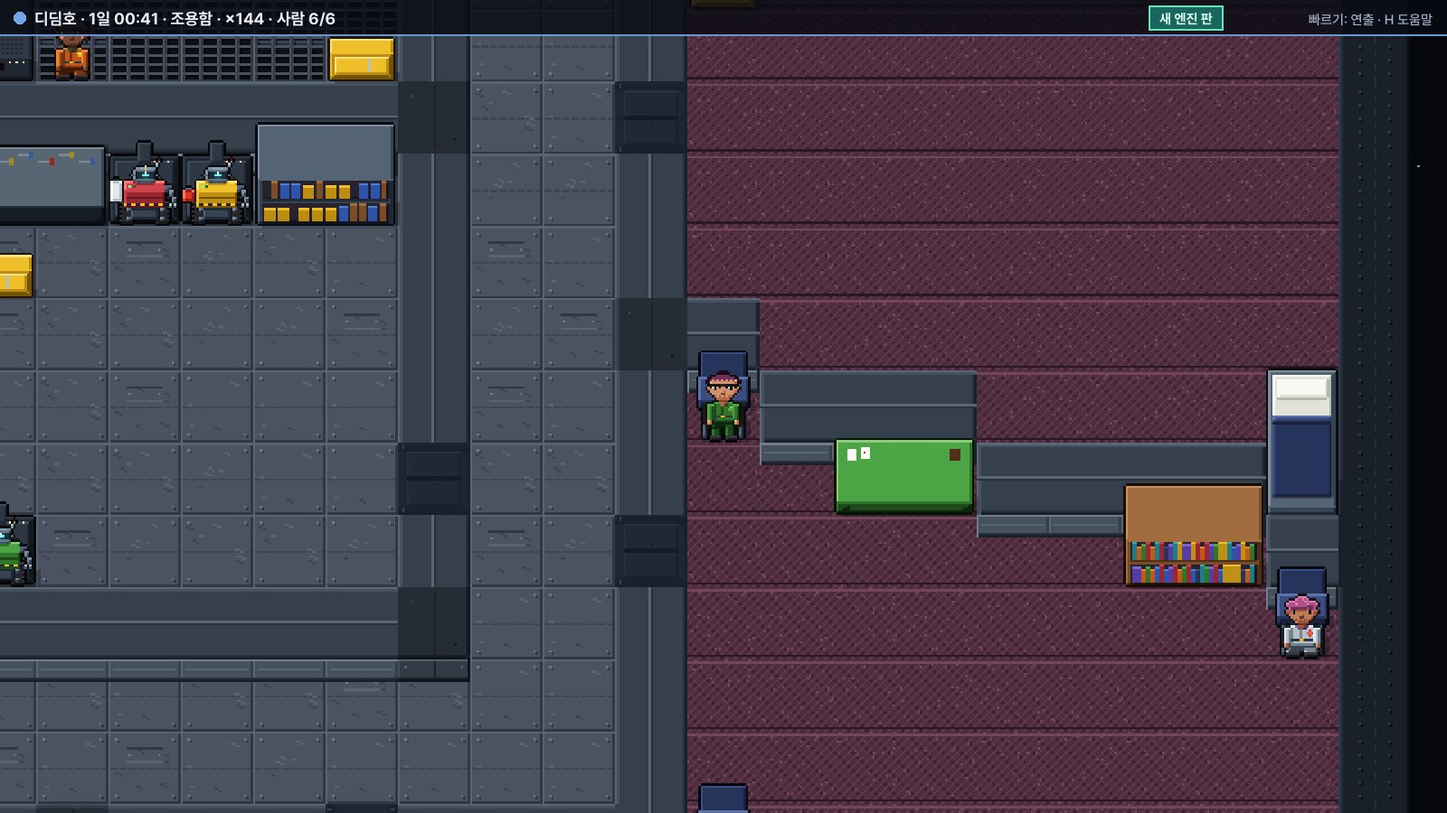
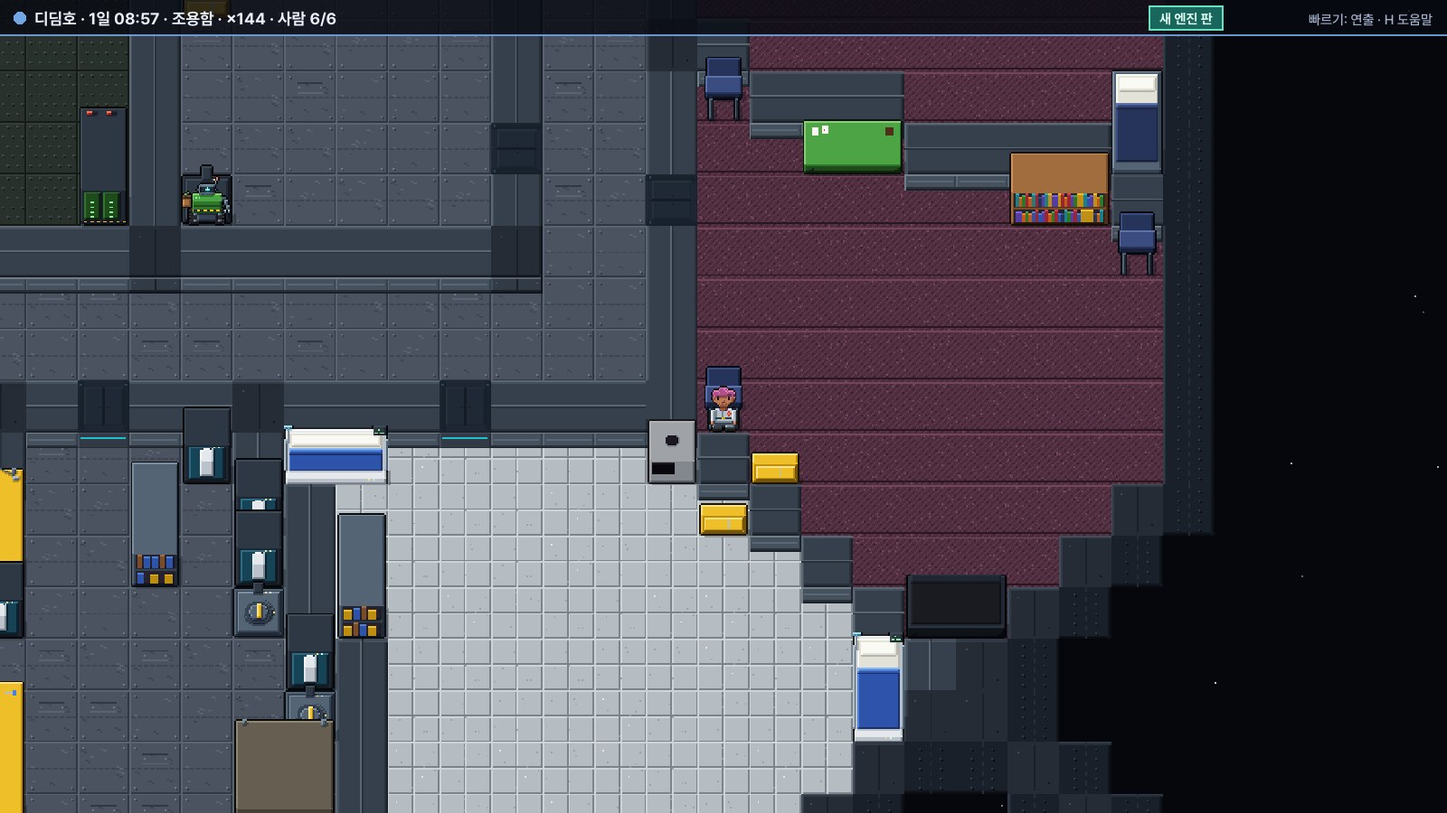
조용할 때 카메라가 사람들의 일상을 차례로 비춘다 — 빈 배 가운데에 몇 시간씩 쉬던 것
새 엔진 판을 보며 찾은 것: 볼 만한 일이 없으면 카메라가 배 가운데(빈 통로)에 몇 시간씩 머물렀다.
- 연출 카메라: 관심이 1 아래면 깨어 있는 이가 있는 방 가운데 가장 오래 안 본 방을 15초씩 비춘다 (다들 자면 자는 방) · 막 본 장면은 8초 머문다 · 첫 일에는 곧장 자른다
- 규칙 시험 +1 (고치기 전 실패: 한 방 · 옮김 0) · 재미 점수 그대로 54 · 큰 일 놓침 2% → 0%
- 계획 끝에 함장 요청: 새 엔진 판 60프레임 확실히 · 화면(UI) 입히기
- README 지금 하는 일 · 새 엔진 판 낮 사진

Claude-Session: https://claude.ai/code/session_01U2W6DR7W4owqDy6NFo87pX

diff --git a/engine/ShipEngine/Story/DirectorCamera.cs b/engine/ShipEngine/Story/DirectorCamera.cs
@@ -7,6 +7,7 @@ namespace ShipEngine;
 /// <item>몸으로 읽는 조짐 (카메라만 쓰는 관심 — 하이라이트 문턱에는 넣지 않는다): 12초마다 사람이 선 칸의 공기(산소 분압 · 기압 · 기압이 떨어지는 빠르기 · 일산화탄소 · 열 · 곁의 불)를 읽어 — 몸이 알기 전에 그 사람에게 간다 (자는 사람은 더).</item>
 /// <item>주인공 따라가기: 장면을 고를 때 그 자리에서 가장 컸던 일의 사람을 주인공으로 — 업고 뛰거나 도망치거나 불을 끄거나 쓰러져 있으면 따라간다 (업혀 가면 업은 이를).</item>
 /// <item>두 곳 오가기: 화면 밖에 지금 장면의 반쯤 되는 일이 20초 넘게 안 보였으면 잠깐 그리로 (결정적 순간엔 자르지 않는다).</item>
+/// <item>조용할 때 일상: 볼 만한 일이 없으면 사람이 있는 방을 차례로 비춘다 (깨어 있는 이가 있는 방 · 가장 오래 안 본 방부터 · 한 방에 15초 · 다들 자면 자는 방).</item>
 /// </list>
 /// </summary>
 public sealed partial class Director
@@ -20,6 +21,13 @@ public sealed partial class Director
     /// <summary>지금 장면의 사슬 뿌리 · 주인공 (에이전트 · −1 없음).</summary>
     public int SceneRoot, Subject = -1;
     public int Pulls, CrossCuts, AirWarnings;
+    public long DailyCuts;
+    public const double DailyHoldSec = 15;                        // 조용할 때 한 방에 (화면 초)
+    private int _dailyRoom = -1;
+    private double _dailyAt, _cutAt;
+    private int[] _roomAwake = Array.Empty<int>(), _roomAll = Array.Empty<int>();
+    private double[] _roomShown = Array.Empty<double>();
+    private (int x0, int y0, int x1, int y1)[] _roomBox = Array.Empty<(int, int, int, int)>();
     public long FollowTicks;
     private int _pullCell = -1, _pullRoot, _pullActor = -1;
     private double _pullAt = double.MinValue / 2; private float _pullScore;
@@ -54,7 +62,7 @@ public sealed partial class Director
     {
         bool fresh = FocusCell < 0 || _resting || Far(cell, FocusCell);
         if (FocusCell >= 0 && !_resting && Far(cell, FocusCell)) { Switches++; _sinceSwitch = 0; }
-        FocusCell = cell; _resting = false;
+        FocusCell = cell; _resting = false; _cutAt = ScreenSeconds;
         if (!fresh && root < 0) return;
         int bestRoot = 0, bestActor = -1; float bs = 0;
         for (int k = 0; k < _recentN; k++)
@@ -66,6 +74,73 @@ public sealed partial class Director
         SceneRoot = root >= 0 ? root : bestRoot;
         Subject = actor >= 0 ? actor : bestActor;
         _subjectQuiet = t;
+    }
+
+    /// <summary>
+    /// 조용할 때 일상 (함장 요청 — 새 엔진 판에서 엔진이 도는 것이 보이게): 볼 만한 일이 없으면 빈 배 가운데에 쉬지 않고 사람이 있는 방을 차례로 비춘다 —
+    /// 깨어 있는 이가 있는 방 가운데 가장 오래 안 본 방 (처음이면 사람이 많은 방) · 한 방에 15초 (화면) · 다들 자면 자는 방 · 그 방 사람들 가운데쯤의 사람에게 · 방 넓이만큼 확대.
+    /// 쉬는 것으로 치니 (_resting) 첫 일에는 곧장 그리로 자른다.
+    /// </summary>
+    private void Daily(Sim sim)
+    {
+        _resting = true;
+        var mind = sim.Find<Mind>(); var life = sim.Find<Life>();
+        int n = L.Rooms.Count;
+        if (mind == null || life == null || n == 0) { if (FocusCell < 0) FocusCell = L.Index(L.W / 2, L.H / 2); return; }
+        if (_roomAll.Length != n)
+        {
+            _roomAwake = new int[n]; _roomAll = new int[n]; _roomShown = new double[n]; _roomBox = new (int, int, int, int)[n];
+            Array.Fill(_roomShown, double.MinValue);
+            for (int r = 0; r < n; r++)
+            {
+                int x0 = int.MaxValue, y0 = int.MaxValue, x1 = -1, y1 = -1;
+                foreach (int c in L.Rooms[r].Cells) { x0 = Math.Min(x0, L.X(c)); y0 = Math.Min(y0, L.Y(c)); x1 = Math.Max(x1, L.X(c)); y1 = Math.Max(y1, L.Y(c)); }
+                _roomBox[r] = (x0, y0, x1, y1);
+            }
+        }
+        Array.Clear(_roomAwake); Array.Clear(_roomAll);
+        bool anyAwake = false;
+        foreach (var a in mind.Agents)
+        {
+            if (!a.IsPerson || a.C.Body < 0 || a.C.Cell < 0) continue;
+            var b = life.Bodies[a.C.Body];
+            if (b.Alive == 0) continue;
+            int r = L.Room[a.C.Cell];
+            if (r < 0 || r >= n) continue;
+            _roomAll[r]++;
+            if (b.Asleep == 0) { _roomAwake[r]++; anyAwake = true; }
+        }
+        int[] count = anyAwake ? _roomAwake : _roomAll;
+        bool keep = _dailyRoom >= 0 && _dailyRoom < n && count[_dailyRoom] > 0 && ScreenSeconds - _dailyAt < DailyHoldSec;
+        if (!keep)
+        {
+            int pick = -1;
+            for (int r = 0; r < n; r++)
+            {
+                if (count[r] == 0) continue;
+                if (pick < 0 || _roomShown[r] < _roomShown[pick] || _roomShown[r] == _roomShown[pick] && count[r] > count[pick]) pick = r;
+            }
+            if (pick < 0) { if (FocusCell < 0) FocusCell = L.Index(L.W / 2, L.H / 2); _dailyRoom = -1; return; }
+            if (pick != _dailyRoom) { DailyCuts++; _dailyRoom = pick; }
+            _dailyAt = ScreenSeconds;
+        }
+        _roomShown[_dailyRoom] = ScreenSeconds;
+        // 그 방 사람들 가운데쯤에 선 사람
+        double sx = 0, sy = 0; int k = 0;
+        foreach (var a in mind.Agents)
+            if (a.IsPerson && a.C.Cell >= 0 && L.Room[a.C.Cell] == _dailyRoom) { sx += L.X(a.C.Cell); sy += L.Y(a.C.Cell); k++; }
+        if (k == 0) return;
+        sx /= k; sy /= k;
+        int best = -1; double bd = double.MaxValue;
+        foreach (var a in mind.Agents)
+        {
+            if (!a.IsPerson || a.C.Cell < 0 || L.Room[a.C.Cell] != _dailyRoom) continue;
+            double dd = (L.X(a.C.Cell) - sx) * (L.X(a.C.Cell) - sx) + (L.Y(a.C.Cell) - sy) * (L.Y(a.C.Cell) - sy);
+            if (dd < bd) { bd = dd; best = a.C.Cell; }
+        }
+        FocusCell = best;
+        var (bx0, by0, bx1, by1) = _roomBox[_dailyRoom];
+        Zoom = Math.Clamp(Math.Max(bx1 - bx0 + 1, (by1 - by0 + 1) * 2) + 6, 14, 40);
     }
 
     /// <summary>칸 c 가까이(반경 SpotRadius · 10분 안)의 일이 지금 장면의 것인가 (같은 사슬 · 같은 주인공).</summary>

diff --git a/engine/Lab/RulesCamera.cs b/engine/Lab/RulesCamera.cs
@@ -206,5 +206,26 @@ public static partial class Program
                 first == 1 && soon == 1 && late == 1,
                 $"첫 말다툼 뒤 {first}개 · 한 시간 뒤 {soon}개 · 조용한 일곱 시간 뒤 {late}개 (문턱 {Director.HighlightAt:0})");
         }
+
+        // ── 조용할 때 일상: 볼 만한 일이 없으면 배 가운데(빈 통로)에 쉬지 않고 사람이 있는 방을 차례로 비춘다 (함장 요청 — 새 엔진 판에서 엔진이 도는 것이 보이게) ──
+        {
+            var s = Worlds.Full(lay, 3);
+            var m = s.Get<Mind>(); var life = s.Get<Life>();
+            m.AddPerson(s, At(3, 2)); m.AddPerson(s, At(5, 4)); m.AddPerson(s, At(65, 3));
+            var d = new Director(s.Layout) { KeepRing = false };
+            int ticks = 0, withPeople = 0;
+            var shown = new HashSet<int>();
+            for (int i = 0; i < 3000; i++)
+            {
+                s.Step(); d.Observe(s);
+                if (d.FocusCell < 0) continue;
+                int room = s.Layout.Room[d.FocusCell];
+                ticks++;
+                if (room >= 0 && m.Agents.Any(a => a.IsPerson && a.C.Cell >= 0 && s.Layout.Room[a.C.Cell] == room)) { withPeople++; shown.Add(room); }
+            }
+            Check("조용할 때 일상: 볼 만한 일이 없으면 빈 통로에 쉬지 않고 사람이 있는 방을 비추고 · 방을 돌아가며 본다 (한 방에 15초)",
+                withPeople >= ticks * 0.85 && shown.Count >= 2 && d.DailyCuts >= 2,
+                $"사람이 있는 방을 본 틱 {withPeople}/{ticks} · 본 방 {shown.Count} · 방을 옮김 {d.DailyCuts} · 화면 {d.ScreenSeconds:0}초");
+        }
     }
 }

diff --git a/engine/ShipEngine/Story/Director.cs b/engine/ShipEngine/Story/Director.cs
@@ -54,7 +54,7 @@ public sealed partial class Director
 
     private long _cursor;
     private int _top = -1; private float _max;
-    private bool _resting;                      // 볼 것이 없어 배 가운데를 보고 있다 (첫 일에 바로 간다)
+    private bool _resting;                      // 볼 것이 없어 사람들의 일상(없으면 배 가운데)을 보고 있다 (첫 일에 바로 간다)
     private double _sinceSwitch;
     private double _criticalLeft;               // 아주 느리게 남은 화면 초
     private long _lastOmen = long.MinValue / 2, _lastDanger = long.MinValue / 2;
@@ -216,7 +216,12 @@ public sealed partial class Director
             if (watching && !InView(i)) { outMax = h; outTop = i; }
         }
         _top = top; _max = max;
-        if (top < 0 || max < 1) { if (FocusCell < 0) { FocusCell = L.Index(L.W / 2, L.H / 2); _resting = true; } Subject = -1; SceneRoot = 0; return; }
+        if (top < 0 || max < 1)
+        {
+            // 볼 만한 일이 없다: 막 본 장면은 적어도 HoldScreenSec 머물고 · 그다음은 사람들의 일상을 비춘다
+            if (FocusCell < 0 || _resting || ScreenSeconds - _cutAt >= HoldScreenSec) Daily(sim);
+            Subject = -1; SceneRoot = 0; return;
+        }
         float cur = _resting ? 0 : ViewScore(FocusCell);
         // 1. 사슬의 앞머리: 사슬이 새 엔진으로 번진 곳이 화면 밖이면 (결정적 순간이 아니고 · 지금 장면을 2초는 봤으면) 그리로 간다
         if (_pullCell >= 0)

diff --git a/README.md b/README.md
@@ -4,7 +4,7 @@
 **인공 중력 · 무중력 ✔** — 배마다 인공 중력 발생기가 하나 있다: 끄거나 망가지거나 전기가 끊기면 10초에 중력이 사라지고 · 다시 돌면 30초에 1g로 선다 · 떨어져 나간 조각은 발생기가 없어 떠다닌다. 중력이 사라지면 사람은 떠서 손잡이를 잡고 간다 (처음인 이는 느리고 · 여덟 시간쯤 지내면 익숙해진다 · 로봇은 자석 발로 느리게) · 침대 밖에서 자던 이는 떠다니다 부딪혀 깨고 · 중력이 돌아오면 서툰 이는 바닥에 떨어져 넘어진다. 주컴퓨터는 꺼진 발생기를 곧 다시 켜고 · 무너질 때 '손잡이를 잡으세요' · 돌아올 때 '바닥 쪽을 잡으세요'를 알려 — 들은 이는 넘어짐이 4분의 1로 준다. 무중력에서는 쏟아진 물이 바닥에 퍼지지 않고 둥근 물 덩어리로 떠 방 안을 떠돌다 벽 · 의자 · 설비에 들러붙고 — 전선이 지나는 칸에 붙으면 합선한다 · 구멍이 나면 돌풍이 떠 있던 물을 우주로 끌고 나가고 · 중력이 돌아오면 떠 있던 물이 그 자리에 쏟아져 엉뚱한 곳에 웅덩이가 생긴다 · 그을음도 가라앉지 않아 오래 떠 있다. 무중력에서는 뜨거운 공기가 떠오르지 않아 불꽃이 제 둘레 공기만 먹다가 몇 분 만에 스스로 꺼지지만 · 통풍구 곁의 불은 계속 탄다 · 가만히 자는 이의 얼굴 앞에는 날숨이 고여 머리가 아파 깨고 — 그 뒤로는 통풍구 앞에 침낭을 묶고 잔다. 무중력에 오래 있으면 근육(주마다 1.5%) · 뼈(달마다 1.25%)가 약해져 — 운동으로 반쯤 늦추고 · 약해진 이는 중력이 돌아올 때 넘어지고 뼈가 부러지기도 한다 · 처음 사흘은 우주 멀미로 덜 먹고 가끔 토한다 (토한 것도 떠다닌다). 마지막으로 (바) 관찰 장면 '중력이 꺼진 식당': 점심때 발생기가 멈추면 식탁의 국 · 물병이 떠오르고 · 로봇이 있으면 16분 · 없으면 사람이 떠서 건너가 27분에 고친다 — 보며 고친 결함: 운동하고 난 몸의 열을 주컴퓨터가 열병으로 방송하던 것 · 발생기 고유 그림 · 떠 있는 사람은 바닥에 그림자. **② 사고 화학 ✔** — 마지막으로 더한 것 (사) 관찰 장면 '폼 침대 불': 새벽 두 시 침실의 빈 침대 곁 충전기 불꽃이 폼 매트리스에 붙으면 1분 만에 그 방에 일산화탄소 · 시안화수소가 차고 · 자던 이는 열과 불빛에 깨 외치고 나가며 · 주컴퓨터는 '독한 기체 — 숨을 참고 나오세요'를 알리고 통풍구를 닫고 봉쇄한다 · 로봇이 있으면 1분 안에 끄고 · 로봇이 없으면 사람에게 부탁한다. 보며 고친 것: 불 앞 연기에 밀려난 이가 곧장 되들어가기를 되풀이하던 것 (이제 몇 분 물러나 있고 '연기에 밀려났다'를 남긴다) · 로봇이 없는 배에서 '로봇이 모두 바쁩니다'라 하던 것 · 한 방을 두 번 봉쇄하던 것. 그 전 (바) 소화제: 이산화탄소 소화기가 생겼다 (배전반 · 주컴퓨터 곁에 하나씩 · 작업대에서 만든다) — 차가운 이산화탄소를 뿜으면 불꽃이 들이쉬는 공기가 옅어져 꺼지지만 · 식히지는 못해 뜨거운 침대는 기체가 걷히면 다시 붙고 · 물은 식혀 끄고 다시 붙지 않는다 · 작은 불은 소화기로 꺼지지만 큰 불은 하나로 못 끈다 · 불꽃은 방 공기를 먹어 닫힌 방은 방 전체가 옅어져야 꺼지고 뜨거운 방의 불은 옅은 산소에도 버틴다 · 전기가 흐르는 불(눌어붙은 차단기의 아크)에는 로봇과 전기를 아는 사람이 멀어도 이산화탄소 소화기를 들고 · 모르는 사람은 가까운 물 소화기를 뿌리다 감전된다 (원인 사슬에 남는다). 고친 결함: 다른 물건을 든 사람이 불을 끄러 가지 않던 것 · 옆 의자로 번진 불의 원인 사슬이 끊기던 것. 그 전 (마) 누출: 산소 발생기의 조절 센서는 늙으면 산소를 낮게 읽어 — 발생기가 쉬지 않고 돌아 배가 소리 없이 짙은 산소가 된다 (냄새도 색도 없어 사람은 못 느낀다) · 주컴퓨터가 제 방 센서와 견줘 23.5%에서 잡아 '산소가 짙다 — 불꽃 · 조리를 멈추세요'를 알리고 조리대를 끄고 센서를 다시 맞춘다 (주컴퓨터가 꺼져 있으면 아무도 모른다) · 산소 발생기 봉함이 터지면 갈라 낸 수소가 방에 차고 · 주컴퓨터 불붙는 기체 센서가 폭발 하한의 25%에서 알리고 그 방을 배기한다 · 그래도 불꽃이 튀면 터지고 그 원인 사슬이 봉함 샘까지 닿는다 · 냉매 암모니아는 5ppm부터 지린 냄새로 안다. 그 전 (라) 리튬 전지 열폭주: 배터리 하나가 셀 묶음 여덟 — 불 곁에서 케이스에 닿은 양 끝 묶음부터 달아올라 150℃에 안전 밸브가 쉬익 열리며 전해액 증기(이산화탄소 · 수소 · 메탄 · 일산화탄소)와 플루오린 화합물을 뿜고 (공기의 물과 만나 플루오린화수소 — 코와 눈을 찌르고 자던 이도 깬다 · 피할 곳이 없으면 폐를 다친다) · 200℃에 펑 터지며 폭주해 불이 나고 · 그 열이 옆 묶음을 달궈 몇 분 간격으로 차례로 번진다 · 파편에 찌그러지면 곧바로 · 80℃쯤은 버티고 · 다 쓴 배터리는 뿜기만 하고 불은 나지 않는다. 고친 결함: 열을 빨아들이는 반응이 칸 공기의 열보다 크면 에너지가 생겨나던 것 · 눌어붙은 차단기를 로봇이 손으로 끊는 일이 우연(옛 배터리가 1분 만에 터져 전기가 끊김)에 기대던 것 — 이제 배전반 주 차단기까지 낡았을 때 로봇이 끊는다. 그 전 (다) 산소와 불: 재질마다 스스로 타오르는 가장 옅은 산소(한계 산소 지수)가 있어 · 산소가 짙으면 훨씬 세게 타고 낮은 온도에서도 붙으며 (아폴로 1호처럼) · 기압이 낮아도 산소 비율이 같으면 그대로 타고 (NASA 시험) · 산소가 옅어지면 작은 불은 스스로 꺼지지만 둘레가 뜨거운 큰 불은 버틴다. 그 전 (나) 냄새 · 증상 · 센서: 염화수소는 누구나 '코를 찌르는 매캐한 냄새'로 · 시안화수소의 쓴 아몬드 냄새는 열에 여섯만 맡는다 — 맡은 이가 외쳐 못 맡는 이도 말로 알고 · 혼자면 어지러워진 뒤에야 늦게 나간다 · 자던 사람은 시안화수소에 깨지 않는다 · 주컴퓨터 공기 센서가 기체 이름과 짙기를 방송하고 ('시안화수소 80ppm — 숨을 참고 나오세요') · 달아오른 피복의 염화수소로 불보다 먼저 안다. 그 전 (가) 재질마다 다른 독가스: 전선 피복(PVC)은 달궈지기만 해도 염화수소가 빠져 방이 매캐해지고 · 침대 · 좌석의 폼(폴리우레탄)이 산소 모자라게 타면 시안화수소가 차 몇 분 만에 쓰러진다 (200ppm이면 5분). **④ 칸 강체 ✔** (함장 요청 — 움직임 · 부딪힘 · 파괴를 칸으로) — (가): 떨어져 나간 조각이 몸이 된다 — 뚫린 곳으로 공기를 뿜으며 그 반대로 밀려 돌고 멀어지며 · 안의 사람 · 설비는 스크립트 없이 함께 간다 (화면에도 돌아간 채로) · 배가 점화하면 배만 나아가고 조각은 뒤에 남는다 · (나) 안의 것이 관성대로 — 조각이 덜컹이면 상자가 미끄러지고 선 사람이 넘어지며 · 빠르게 도는 조각 안의 상자는 바깥 벽으로 밀려간다 · (다) 부딪힘 — 먼 쪽 벽이 뚫린 조각은 뿜는 공기에 밀려 배로 되돌아와 부딪히고 (사람이 넘어지고 배도 밀린다) · 세게 부딪히면 맞닿은 벽이 찢겨 공기가 샌다 · 조각도 또 갈라진다 · (라) 잔칸 4×4 — 벽 · 바닥이 25cm 조각으로 들쭉날쭉 뚫리고 찢기며 (찢긴 금속 테) · 갈라진 자리의 찢긴 끝이 양쪽에 남는다 · 부딪힘도 그 모양대로 · (마) 부스러기 알갱이 — 떨어져 나간 판 조각이 알갱이로 날아 화면에 보이고 · 빠지는 공기가 기압만큼 세게 밀며 · 다른 몸에 박히면 그 몸을 밀고 · 빠르고 작은 것은 외판을 뚫지만 크고 느린 덩어리는 찌그러뜨릴 뿐 · 멀리 가면 우주로 · (바) 관전 화면 — 갈라진 조각이 틱 사이에도 미끄러지듯 움직이고 · 카메라가 멀어진 조각까지 따라가며 · 배가 돌면 별도 돈다. 다음: 볼 거리 (갈라짐 · 부딪힘을 하이라이트로). 설계: 떨어져 나간 조각이 실제로 움직이고 돌며 · 안의 사람 · 물건 · 설비가 함께 가고 · 고정 안 된 것은 관성대로 날아가고 · 부딪히면 닿은 칸이 부서져 또 조각이 된다 (구조는 칸 안 4×4 잔칸 · 기체 · 열은 1m 그대로). **⑥ 배선 · 배관을 칸마다 + 고장 원인 ✔** — 모든 전선 · 냉각관 · 물관 · 센서 선이 칸마다 깔리고 끊긴 칸 뒤로는 안 간다. 방금 더한 것: 새는 관 찾기 — 젖은 바닥의 관은 녹슬어 바늘구멍이 나고 (자리를 모른다) · 주컴퓨터가 물이 쓰는 만큼보다 빨리 주는 것으로 알아 방마다 밸브를 잠가 가며 좁히고 · 그 방 관을 로봇이 따라가며 찾아 죈다 · 그 전: 피복을 타고 번지는 불 — 산소가 짙은 낮은 기압 대기(34%)에서는 전선 칸 하나의 불꽃이 전선 묶음을 따라 기어 열린 문 너머 옆 방까지 번지고 그 길의 전선이 끊긴다 · 닫힌 문에서 멈추고 · 보통 공기에서는 그 칸에서 꺼진다 · 그 전: 고장 원인 — 닳음의 까닭이 원인 사슬로 (불이 지나간 방의 정화기 거르개는 그을음이 끼어 막히고 원인이 그 불까지 · 정비 때를 넘겨 돈 모터는 베어링 기름이 말라 · 배기구가 막혀 달궈진 주컴퓨터 회로는 일찍 낡고 · 늘 뜨거운 칸의 전선 피복은 늙어 갈라져 합선) · 그 전: 선과 관을 칸마다 — 간선 · 급전선 · 가지선 · 냉각관 · 물관 (평소엔 안 보이고 겹쳐 보기 O '선과 관'에서만) · 간선이 끊기면 원자로가 섬으로 떨어져 배터리가 받는다 · 냉각관이 끊긴 원자로는 식지 못해 멈춘다 · 물관이 끊긴 산소 발생기는 물을 못 가른다 · 불에 탄 급전선은 식어도 차단기를 올릴 수 없어 로봇이 가서 잇는다 · 합선 아크가 같은 칸의 원자로 간선까지 태운다 · 그 전: 판단 엔진 끝 — 생각 사슬을 화면에 — 주컴퓨터 판에 지어낸 계획의 궁리와 걸음(✔ 마침 · ▶ 하는 중) · 회의가 넣은 매뉴얼 · 사람 카드 · 사람 판에 그 사람의 궁리 · 궁리 끝에 해낸 일은 볼 거리 (판단 엔진 끝 — 다음: 배선 · 배관을 칸마다) · 그 전: 회의가 매뉴얼을 고친다 — 주컴퓨터가 지어낸 방법('임시 에어락')이 통하면 회의 안건이 되고 · 사람마다 주컴퓨터를 믿는 정도 · 성실 · 기압 앎으로 표결해 매뉴얼에 넣는다 (믿지 않는 배는 '주컴퓨터가 지어낸 것을 어떻게 믿나'로 부결) · 같은 꼴의 다음 구멍은 해 보지 않아도 막힐 것이 센서로 보이면 매뉴얼로 바로 궁리한다 (계획까지 31분 → 0.4분 · 막기까지 64분 → 16분) · 매뉴얼대로 했다가 두 번 넘게 틀어지면 '빼자' 안건 · 그 전: 사람의 궁리 — 구멍을 막으러 가다 문 앞에서 막힌 사람이 차례로 궁리한다 (막힌 까닭에서 배운다 → 주컴퓨터가 이미 계획을 세웠으면 따른다 → 제가 아는 방 · 문 그림으로 제 지식만큼 궁리한다 → 주컴퓨터가 해 주면 되는 길이 보이면 묻는다 → 그것도 없으면 '방법을 모르겠다') · 해내면 그 분야를 더 안다 · 주컴퓨터 계획 실행기의 결함 셋을 고쳤다 (끼워 넣은 걸음을 덮어써 같은 걸음이 스무 번 겹치던 것 · 계획을 세운 뒤 몸이 제 자리를 떠나 맞지 않는 계획을 하던 것 · 제 계획의 몸이 지나갈 문을 제가 잠가 1분마다 같은 실패를 되풀이하던 것) · 작업 도구: 단계별 시간 · 표본 수집 · 되풀이 접기 · 그 전: 벽이 버틸까 — 파편에 길게 찢긴 방을 봉합 꾸러미로 일곱 시간 덮고 다시 채우면 금이 다시 달려 찢어지던 일 · 이제 주컴퓨터가 금 센서로 다시 채우면 버틸지 셈해 받칠 벽은 로봇이 먼저 덧대 받치고 · 받쳐도 못 버티면 막지도 채우지도 않고 닫아 둔다 (예비 공기를 아낀다) · 큰 구멍은 여러 번 덧대는 만큼 시간을 셈한다 · 그 전: 로봇이 없는 배에서는 주컴퓨터가 사람에게 부탁해 함께 궁리한다 — 그 사람의 몸에 맞춰 (우주복이 있어야 옅은 공기에 든다 · 봉합 꾸러미가 몇 개 있나) '우주복을 입는다 → 문틈을 막는다 → (주컴퓨터가) 앞방 공기를 되돌린다 → 들어가 구멍을 막는다'를 지어내고 · 그 사람은 출입 금지에서 빠져 맡은 걸음만 한다 · 그 전: 주컴퓨터가 궁리한다 — 안에서 · 바깥에서 막기가 다 막히면 아는 원리(기압 차 · 밸브 · 공기 되돌리기 · 문틈 · 공기냉각 …)로 다른 길을 지어낸다 ('지어낸 안: 문틈을 막고 → 앞방 공기를 예비 탱크로 되돌리고 → 문을 열어 → 들어가 막는다' — 임시 에어락) · 위험한 걸음 앞에서 세계를 복제해 미리 돌려 보고 · 비울 방은 문을 잠그고 사람에게 출입 금지 (따를지는 사람마다) · 같은 실패를 되풀이하지 않는다 · 그 전: 막힘 — 일이 막히면 까닭을 안다 ('로봇 1이 방1에서 막혔다 — 문 너머가 우주로 트여 기압을 맞출 수 없다' · 문이 끼었다 · 지난번에 안 열린 문밖에 길이 없다 · 바깥으로 나갈 문이 없다) · 주컴퓨터가 맡긴 로봇의 막힘을 읽어 일지에 쓴다 · 고쳐진 문은 다시 믿는다. 다음: ⑥ 배선 · 배관을 칸마다 · ④ 칸 강체(움직임 · 부딪힘 · 파괴) · ② 사고 화학 · 인공 중력 · ⑦ 장기 · 약 · 수술 · ⑧ 정신 건강 · ⑨ 문화 · ⑪ 공급 사슬 · ⑤ 통신 지연 · 별계 · ⑫ 긴 줄기 · ⑬ 이야기 편집.
 
 
-**지금 하는 일: 깊이 바퀴 3 — ⑧ 마음 · ⑨ 사회 깊게: 인생 목표 ✔ (사람마다 솜씨 · 귀향 · 짝 · 배를 지킨다 · 알아낸다 중 하나 — 그 목표가 불로 달려갈지 먹으러 갈지를 가르고 · 점화를 놓치면 집에 가고 싶던 이만 무너진다) · 거짓말과 속임 ✔ (제 실수를 숨긴 이가 그 장치를 고친 동료에게 떠넘기고 · 듣는 이는 반쯤 믿고 · 그때 곁에서 본 이나 주컴퓨터의 정비 기록으로 들통나면 믿음이 무너진다) · 오래 남는 배움 ✔ (불 · 구멍 · 나쁜 공기를 곁에서 보거나 겪은 이는 3주 동안 그 위험에 더 일찍 움직인다 — 구멍을 겪어 본 이는 옅은 공기에 마스크를 5분 먼저 쓴다 · 두 주 넘게 안 쓴 솜씨는 녹고 다시 익히면 처음보다 빠르다 · 주컴퓨터의 주간 비상 훈련) · ⑨ 회의 · 재판 · 선거 · 반란 ✔ (한 사람에게 원망이 모이면 식당에 모여 한 마디씩 하고 표결한다 — 사과 · 벌 당번 · 근신 · 무죄 · 대표를 믿는 이는 대표의 말 쪽으로 기운다 · 대표가 없거나 무너지면 비밀 투표로 다시 뽑는다 · 배급 중 굶주림이 이틀을 넘으면 배급을 따르지 않기로 표결해 보관함을 드러내 놓고 연다 · 위기가 나면 흩어진다) · 방금 더한 것: 고립의 피로 — 닫힌 배의 같은 얼굴 · 같은 일과에 몇 주에 걸쳐 지쳐 간다 (예민하고 새것을 바라는 이일수록 · 붐비고 잠이 얕을수록) · 지친 이끼리는 말이 더 부딪치고 묵은 일을 더 쉽게 꺼내고 덜 참는다 · 쉼 · 다른 배와의 교신 · 도착이 풀어 준다 · 그 전: 다툼을 곁에서 본 사람이 끼어든다 — 한쪽을 아끼는 이는 편을 들어 상대의 원망을 사고 · 다정하고 용감한 이는 말려 둘의 화를 가라앉힌다 · 그 전: 한밤에 곁에서 크게 떠든 이의 말소리에 잠을 깬 사람은 그 사람을 조금 원망하고 기억한다 (예민한 이일수록 더 · 기계 소리엔 탓할 사람이 없다) — 작은 마찰이 쌓여 다툼이 된다 · 그 전: 배가 새는 동안 주컴퓨터가 방마다 예비 공기를 넣다 껐다 하며 한 시간에 다 써 버리던 결함 — 이제 새는 동안은 다시 채울 몫을 남기고 마스크로 버티게 하며 · 채울 공기가 없으면 비워진 방은 닫아 둔다 · 그 전: 마스크함이 없던 배 — 큰 구멍 뒤 옅은 공기에 쓸 마스크가 없어 모두 숨지던 판 → 사람이 머무는 방마다 산소 마스크함 (마스크가 사람 수보다 많게) · 그 전: 센서 무선 — 센서 선이 끊겨도 전기가 있는 방은 옆 방을 거쳐 무선으로 (느리게) 보인다 · 해치를 닫으면 덜 닿고 문을 열면 더 멀리 · 그 전: 예비 공기가 바닥나 배 전체가 옅어지자 갈 곳 없이 한 칸에서 뛰어다니며 산소를 세 배로 쓰던 결함 — 이제 도망칠 곳이 없으면 마스크를 쓰고 가만히 숨을 아낀다 · 낮은 기압에서 산소 비율이 34%를 넘지 않게 · 그 전: 파편 폭풍이 다가와도 주컴퓨터가 가만히 있어 파편 하나에 셋이 숨지던 결함 — 이제 15분 앞에 바람 아래쪽 안쪽 방으로 모이라고 방송하고 열어 둔 해치를 닫는다 (주컴퓨터를 믿지 않는 이는 흘려듣기도 한다 · 양성자 폭풍엔 방사선이 가장 덜 드는 방으로) · 그 전: 기준 평가(`Lab --judge`)에서 긴 항해가 모두 무너져 쫓아 보니 — 큰 구멍 뒤 옅은 공기(42~48kPa)에서 사람들이 아무것도 모른 채 한꺼번에 쓰러졌다 → 이제 몸이 어지러움을 느끼면 산소 마스크를 쓰고 · 주컴퓨터가 사람이 있는 닫힌 방에 예비 공기를 바로 넣는다 (살핌호 죽음 9 → 0) · 그 뒤 ⑨ 회의 · 재판 · 선거 · 반란.** 깊이 바퀴 2 ✔ — 층마다 '최상'까지 ([docs/DEPTH.md](docs/DEPTH.md)) · ⑨ 사회 ✔ (짝 · 무리 · 지도자 · 화해와 맞섬 · 보강: 함께 먹기 · 따라 나가기 · 다친 짝 · 옆 방 비명) · ⑧ 마음 ✔ (요리 · 실수에서 배우기 · 몸의 시계(아침형 · 저녁형) · 쉬는 시간에 하는 일 일곱 · 장소의 기억) · ⑩ 주컴퓨터 ✔ (로봇이 없으면 사람에게 부탁 — 받거나 까닭을 대고 거절 · 급한 일부터 · 제 몸이 뜨거우면 느려지고 멈춤 · 이산화탄소는 방 평균) · ⑪ 일 · 물자 ✔ (모자라면 배급 — 배식기가 사람마다 하루 몫을 잰다 · 덜 성실한 이는 밤에 보관함에서 몰래 한 끼 · 본 이는 원망 · 주컴퓨터는 빈 끼니만 안다 · 막힌 곳을 거슬러 찾는다 · 물 회수율) · ⑦ 생명 ✔ (다친 이를 로봇이 먼저 돌본다 — 구급 상자 · 없으면 맨손 · 덮지 않은 상처는 곪아 열 · 패혈증 · 감기가 곁에서 옮고 앓는 이는 눕는다 · 시끄럽고 밝은 잠자리에선 덜 잔다 · 굶으면 몸무게와 기운이 준다) · ⑫ 이야기꾼 ✔ (조짐 → 절정 → 여파의 막 · 큰 일 뒤엔 무너진 배를 더 때리지 않고 고향의 반가운 소식 · 다친 이가 많으면 쉰다(가혹함 8은 안 쉼) · 감기 · 일하다 다침 · 짝사랑 · 숨긴 실수(고장 나면 털어놓거나 숨긴다) · 일에 닿은 사람이 주인공 · 이 배에서 헛도는 씨앗은 덜 심는다) · ⑬ 연출 ✔ (카메라가 1분 30초 앞을 미리 본다 — 복제한 세계를 앞에 두고 함께 굴려 운석이 부딪히는 순간 이미 그 자리를 보고 있다 · 연쇄의 앞머리를 따라간다 · 공기가 나빠지는 방의 사람에게 몸이 알기 전에 · 업고 뛰는 사람을 따라 · 두 곳에서 일이 나면 엇갈려 · 화면 아래 줄에 '[우주 → 선체 → 사람 → 공기·열]'처럼 연쇄가 건넌 갈래 · 큰 일을 먼저 와서 본 몫 44 → 66%) · 소리 ✔ (돌아가는 기계가 바탕 소음이 된다 — 시끄러운 기계실에선 비명을 못 듣고 크게 외친다 · 시끄러운 잠자리 · 곧 망가질 펌프의 끽끽을 들은 이가 미리 갈거나 · 고칠 줄 모르면 알려 로봇이 간다 · 불 우르릉 · 수소 폭발 쾅 · 열폭주 펑 · 쉬익은 틈 크기와 기압 차대로 · 먼 소리는 늦게 닿는다) · 화면 ✔ (C 사슬 판 — 지금 장면이 어디서 시작해 어느 갈래를 건넜나 · 마디를 고르면 그 자리로 · P 사람 판 — 걱정스러운 사람부터 몸 · 마음 · 짝 · 앙금 · J 주컴퓨터 판 맨 위에 지금 사건 · 배 형편 · O 겹쳐 보기 — 공기(진공 · 옅은 산소 · 일산화탄소) · 열 · 연기 · 사슬 선) · ⑤ 바깥 ✔ (배가 실제로 가속한다 — 로켓 방정식 · 엔진이 한쪽으로만 민다 · 항해는 출발 · 고침 · 도착 점화 (3분 전 방송 · 불이 나 있으면 미룸 · 엔진이 멈추면 놓쳐 지나쳐 간다) · 갑자기 켜면 서 있던 사람이 넘어지고 물건이 미끄러진다 · 레이더가 2~9초 앞에 운석을 잡아 사람이 넘어질 값과 견줘 비킨다 · 상선과 교신 · 조난선에 가서 생존자를 태운다 (옮는 병도 함께) · 난파선의 매연 · 바위 띠) · ⑥ 망 ✔ (생명 유지 방의 급전선이 젖거나 타서 다시 올릴 수 없으면 로봇이 옆 방에서 연장선을 끌어온다 — 문틀에 깔린 동안 그 문은 닫히지 않고 · 젖으면 옆 방까지 합선 · 봉쇄해야 하면 주컴퓨터가 뽑는다 · 수리 꾸러미가 떨어지면 커피 기계 · 조명 같은 덜 중요한 장치에서 부품을 떼어 고친다 — 헌 부품이라 일찍 다시 망가진다 · 물 재생기 봉함이 새면 바닥 물이 전선 길을 적셔 합선) · ① 기반 ✔ · 일꾼 하나가 ④ 구조 → ② 물질 → ③ 장 (조용한 구역 잠재우기까지) · 방금 고친 것: 로봇 둘이 에어락에서 엇갈려(하나는 바깥문 쪽으로 공기를 빼고 하나는 밖에서 안쪽 문을 열고) 배 공기를 12시간 동안 우주로 흘려 디딤호 6명이 숨지던 결함 — 이제 안에서 남이 나가는 중이면 밖에서 기다린다 · 비운 에어락의 안쪽 벽은 압력 경계 · 봉쇄한 방 문을 충전독 로봇 때문에 닫지 못하던 결함
+**지금 하는 일: 게임을 켜면 처음 화면에서 기존 판 · 새 엔진 판을 고른다 ✔ (새 엔진 판은 새 엔진 · 새 배 일곱 척 · 새 관전 화면만 — 엔진이 도는 것을 따로 볼 수 있다) · 조용할 때 카메라가 사람들의 일상을 차례로 비춘다 ✔ · 인공 중력 · 무중력 ✔ — 다음: ⑦ 장기 · 약 · 수술.** 그 전: 깊이 바퀴 3 — ⑧ 마음 · ⑨ 사회 깊게: 인생 목표 ✔ (사람마다 솜씨 · 귀향 · 짝 · 배를 지킨다 · 알아낸다 중 하나 — 그 목표가 불로 달려갈지 먹으러 갈지를 가르고 · 점화를 놓치면 집에 가고 싶던 이만 무너진다) · 거짓말과 속임 ✔ (제 실수를 숨긴 이가 그 장치를 고친 동료에게 떠넘기고 · 듣는 이는 반쯤 믿고 · 그때 곁에서 본 이나 주컴퓨터의 정비 기록으로 들통나면 믿음이 무너진다) · 오래 남는 배움 ✔ (불 · 구멍 · 나쁜 공기를 곁에서 보거나 겪은 이는 3주 동안 그 위험에 더 일찍 움직인다 — 구멍을 겪어 본 이는 옅은 공기에 마스크를 5분 먼저 쓴다 · 두 주 넘게 안 쓴 솜씨는 녹고 다시 익히면 처음보다 빠르다 · 주컴퓨터의 주간 비상 훈련) · ⑨ 회의 · 재판 · 선거 · 반란 ✔ (한 사람에게 원망이 모이면 식당에 모여 한 마디씩 하고 표결한다 — 사과 · 벌 당번 · 근신 · 무죄 · 대표를 믿는 이는 대표의 말 쪽으로 기운다 · 대표가 없거나 무너지면 비밀 투표로 다시 뽑는다 · 배급 중 굶주림이 이틀을 넘으면 배급을 따르지 않기로 표결해 보관함을 드러내 놓고 연다 · 위기가 나면 흩어진다) · 방금 더한 것: 고립의 피로 — 닫힌 배의 같은 얼굴 · 같은 일과에 몇 주에 걸쳐 지쳐 간다 (예민하고 새것을 바라는 이일수록 · 붐비고 잠이 얕을수록) · 지친 이끼리는 말이 더 부딪치고 묵은 일을 더 쉽게 꺼내고 덜 참는다 · 쉼 · 다른 배와의 교신 · 도착이 풀어 준다 · 그 전: 다툼을 곁에서 본 사람이 끼어든다 — 한쪽을 아끼는 이는 편을 들어 상대의 원망을 사고 · 다정하고 용감한 이는 말려 둘의 화를 가라앉힌다 · 그 전: 한밤에 곁에서 크게 떠든 이의 말소리에 잠을 깬 사람은 그 사람을 조금 원망하고 기억한다 (예민한 이일수록 더 · 기계 소리엔 탓할 사람이 없다) — 작은 마찰이 쌓여 다툼이 된다 · 그 전: 배가 새는 동안 주컴퓨터가 방마다 예비 공기를 넣다 껐다 하며 한 시간에 다 써 버리던 결함 — 이제 새는 동안은 다시 채울 몫을 남기고 마스크로 버티게 하며 · 채울 공기가 없으면 비워진 방은 닫아 둔다 · 그 전: 마스크함이 없던 배 — 큰 구멍 뒤 옅은 공기에 쓸 마스크가 없어 모두 숨지던 판 → 사람이 머무는 방마다 산소 마스크함 (마스크가 사람 수보다 많게) · 그 전: 센서 무선 — 센서 선이 끊겨도 전기가 있는 방은 옆 방을 거쳐 무선으로 (느리게) 보인다 · 해치를 닫으면 덜 닿고 문을 열면 더 멀리 · 그 전: 예비 공기가 바닥나 배 전체가 옅어지자 갈 곳 없이 한 칸에서 뛰어다니며 산소를 세 배로 쓰던 결함 — 이제 도망칠 곳이 없으면 마스크를 쓰고 가만히 숨을 아낀다 · 낮은 기압에서 산소 비율이 34%를 넘지 않게 · 그 전: 파편 폭풍이 다가와도 주컴퓨터가 가만히 있어 파편 하나에 셋이 숨지던 결함 — 이제 15분 앞에 바람 아래쪽 안쪽 방으로 모이라고 방송하고 열어 둔 해치를 닫는다 (주컴퓨터를 믿지 않는 이는 흘려듣기도 한다 · 양성자 폭풍엔 방사선이 가장 덜 드는 방으로) · 그 전: 기준 평가(`Lab --judge`)에서 긴 항해가 모두 무너져 쫓아 보니 — 큰 구멍 뒤 옅은 공기(42~48kPa)에서 사람들이 아무것도 모른 채 한꺼번에 쓰러졌다 → 이제 몸이 어지러움을 느끼면 산소 마스크를 쓰고 · 주컴퓨터가 사람이 있는 닫힌 방에 예비 공기를 바로 넣는다 (살핌호 죽음 9 → 0) · 그 뒤 ⑨ 회의 · 재판 · 선거 · 반란. · 깊이 바퀴 2 ✔ — 층마다 '최상'까지 ([docs/DEPTH.md](docs/DEPTH.md)) · ⑨ 사회 ✔ (짝 · 무리 · 지도자 · 화해와 맞섬 · 보강: 함께 먹기 · 따라 나가기 · 다친 짝 · 옆 방 비명) · ⑧ 마음 ✔ (요리 · 실수에서 배우기 · 몸의 시계(아침형 · 저녁형) · 쉬는 시간에 하는 일 일곱 · 장소의 기억) · ⑩ 주컴퓨터 ✔ (로봇이 없으면 사람에게 부탁 — 받거나 까닭을 대고 거절 · 급한 일부터 · 제 몸이 뜨거우면 느려지고 멈춤 · 이산화탄소는 방 평균) · ⑪ 일 · 물자 ✔ (모자라면 배급 — 배식기가 사람마다 하루 몫을 잰다 · 덜 성실한 이는 밤에 보관함에서 몰래 한 끼 · 본 이는 원망 · 주컴퓨터는 빈 끼니만 안다 · 막힌 곳을 거슬러 찾는다 · 물 회수율) · ⑦ 생명 ✔ (다친 이를 로봇이 먼저 돌본다 — 구급 상자 · 없으면 맨손 · 덮지 않은 상처는 곪아 열 · 패혈증 · 감기가 곁에서 옮고 앓는 이는 눕는다 · 시끄럽고 밝은 잠자리에선 덜 잔다 · 굶으면 몸무게와 기운이 준다) · ⑫ 이야기꾼 ✔ (조짐 → 절정 → 여파의 막 · 큰 일 뒤엔 무너진 배를 더 때리지 않고 고향의 반가운 소식 · 다친 이가 많으면 쉰다(가혹함 8은 안 쉼) · 감기 · 일하다 다침 · 짝사랑 · 숨긴 실수(고장 나면 털어놓거나 숨긴다) · 일에 닿은 사람이 주인공 · 이 배에서 헛도는 씨앗은 덜 심는다) · ⑬ 연출 ✔ (카메라가 1분 30초 앞을 미리 본다 — 복제한 세계를 앞에 두고 함께 굴려 운석이 부딪히는 순간 이미 그 자리를 보고 있다 · 연쇄의 앞머리를 따라간다 · 공기가 나빠지는 방의 사람에게 몸이 알기 전에 · 업고 뛰는 사람을 따라 · 두 곳에서 일이 나면 엇갈려 · 화면 아래 줄에 '[우주 → 선체 → 사람 → 공기·열]'처럼 연쇄가 건넌 갈래 · 큰 일을 먼저 와서 본 몫 44 → 66%) · 소리 ✔ (돌아가는 기계가 바탕 소음이 된다 — 시끄러운 기계실에선 비명을 못 듣고 크게 외친다 · 시끄러운 잠자리 · 곧 망가질 펌프의 끽끽을 들은 이가 미리 갈거나 · 고칠 줄 모르면 알려 로봇이 간다 · 불 우르릉 · 수소 폭발 쾅 · 열폭주 펑 · 쉬익은 틈 크기와 기압 차대로 · 먼 소리는 늦게 닿는다) · 화면 ✔ (C 사슬 판 — 지금 장면이 어디서 시작해 어느 갈래를 건넜나 · 마디를 고르면 그 자리로 · P 사람 판 — 걱정스러운 사람부터 몸 · 마음 · 짝 · 앙금 · J 주컴퓨터 판 맨 위에 지금 사건 · 배 형편 · O 겹쳐 보기 — 공기(진공 · 옅은 산소 · 일산화탄소) · 열 · 연기 · 사슬 선) · ⑤ 바깥 ✔ (배가 실제로 가속한다 — 로켓 방정식 · 엔진이 한쪽으로만 민다 · 항해는 출발 · 고침 · 도착 점화 (3분 전 방송 · 불이 나 있으면 미룸 · 엔진이 멈추면 놓쳐 지나쳐 간다) · 갑자기 켜면 서 있던 사람이 넘어지고 물건이 미끄러진다 · 레이더가 2~9초 앞에 운석을 잡아 사람이 넘어질 값과 견줘 비킨다 · 상선과 교신 · 조난선에 가서 생존자를 태운다 (옮는 병도 함께) · 난파선의 매연 · 바위 띠) · ⑥ 망 ✔ (생명 유지 방의 급전선이 젖거나 타서 다시 올릴 수 없으면 로봇이 옆 방에서 연장선을 끌어온다 — 문틀에 깔린 동안 그 문은 닫히지 않고 · 젖으면 옆 방까지 합선 · 봉쇄해야 하면 주컴퓨터가 뽑는다 · 수리 꾸러미가 떨어지면 커피 기계 · 조명 같은 덜 중요한 장치에서 부품을 떼어 고친다 — 헌 부품이라 일찍 다시 망가진다 · 물 재생기 봉함이 새면 바닥 물이 전선 길을 적셔 합선) · ① 기반 ✔ · 일꾼 하나가 ④ 구조 → ② 물질 → ③ 장 (조용한 구역 잠재우기까지) · 방금 고친 것: 로봇 둘이 에어락에서 엇갈려(하나는 바깥문 쪽으로 공기를 빼고 하나는 밖에서 안쪽 문을 열고) 배 공기를 12시간 동안 우주로 흘려 디딤호 6명이 숨지던 결함 — 이제 안에서 남이 나가는 중이면 밖에서 기다린다 · 비운 에어락의 안쪽 벽은 압력 경계 · 봉쇄한 방 문을 충전독 로봇 때문에 닫지 못하던 결함
 
 **게임을 켜면 처음 화면에서 고른다** — `game/project.godot`를 Godot 4.7.2 .NET으로 열어 빌드 · 실행(F5) → **1 기존 판** (옛 게임 그대로) · **2 새 엔진 판** (새로 만든 엔진만 — 새 배 일곱 척 · 새 관전 화면 · 옛 배 · 옛 화면은 쓰지 않고 도트 그림만 같다 · 위 줄 오른쪽에 늘 '새 엔진 판' 표). 명령 줄로 바로: `-- --new --ship=Didim --seed=18` · `-- --old`.
 새 엔진 판 키: 스페이스 멈춤 · 1~6 빠르기 · 끌기/WASD 카메라 · F 연출 따라가기 · Tab 배 전체 · B 다시보기 · 사람 누르기 · L 볼 만했던 장면(골라 다시보기) · T 이야기꾼 · [ ] 가혹함 · J 주컴퓨터(지금 사건 · 배 형편 · 일지) · C 사슬(지금 장면은 어디서 시작됐나) · P 사람 · O 겹쳐 보기(공기 · 열 · 연기 · 사슬 선) · M 음악 · 소리 끄기 · N 다음 배 · Esc 처음 화면
@@ -89,7 +89,7 @@
 - 일산화탄소: 냄새가 없어 깨어 있는 사람은 두통으로만 '공기가 이상하다'고 느끼고 · 잠든 사람은 깨지 않는다
 - 사람 이야기: 업혀 나온 사람은 구한 로봇에게 '목숨을 빚졌다' · 친구를 잃은 사람은 일손을 놓는다
 
-시험: 법칙 95 · 규칙 419 모두 통과 · 관전 장면 빌드 + 화면 없이 10초 (GitHub Actions `engine`) · 1틱(2.4초) 계산 1.1 ~ 2.3ms · 한누리호(세대선) 사람 100 + 로봇 30: 5.2ms (게임 1시간 7.8초)
+시험: 법칙 95 · 규칙 420 모두 통과 · 관전 장면 빌드 + 화면 없이 10초 (GitHub Actions `engine`) · 1틱(2.4초) 계산 1.1 ~ 2.3ms · 한누리호(세대선) 사람 100 + 로봇 30: 5.2ms (게임 1시간 7.8초)
 
 ---
 

diff --git a/docs/ENGINE.md b/docs/ENGINE.md
@@ -853,7 +853,7 @@
 | ⑬ 연출 | 원인 사슬 · 미리 보기 · 주인공 · 두 곳 오가기 · 하이라이트 · 다시보기 · 배속 | **이야기 편집**: 하루 · 한 주를 '장'으로 묶어 요약(큰 사슬 · 사람 이야기 · 판단 사슬) · 다시보기를 영화처럼 (조짐부터 · 여러 시점) |
 | 규모 | 배 3~40명 · 60프레임 | 깊이 먼저 · 최적화는 그다음 · 사람 30~40명까지 |
 
-**차례** (버팀 · 얽힘 · 지루함에 먼저 닿는 것부터): 판단 엔진 → ⑥ 배선 · 배관 칸마다 + 고장 원인 → **④ 칸 강체 (함장 요청 — 움직임 · 부딪힘 · 파괴)** → ② 사고 화학 → 인공 중력 · 무중력 → ⑦ 장기 · 약 · 수술 → ⑧ 기억 · 정신 건강 → ⑨ 문화 · 관습 → ⑪ 공급 사슬 · ⑤ 통신 지연 · 별계 지도 → ⑫ 긴 줄기 → ⑬ 이야기 편집 → ④ 열 · 진동 · ③ 국소 현상 → 최적화.
+**차례** (버팀 · 얽힘 · 지루함에 먼저 닿는 것부터): 판단 엔진 → ⑥ 배선 · 배관 칸마다 + 고장 원인 → **④ 칸 강체 (함장 요청 — 움직임 · 부딪힘 · 파괴)** → ② 사고 화학 → 인공 중력 · 무중력 → ⑦ 장기 · 약 · 수술 → ⑧ 기억 · 정신 건강 → ⑨ 문화 · 관습 → ⑪ 공급 사슬 · ⑤ 통신 지연 · 별계 지도 → ⑫ 긴 줄기 → ⑬ 이야기 편집 → ④ 열 · 진동 · ③ 국소 현상 → 최적화 → **마무리 (함장 요청): 새 엔진 판 60프레임을 확실히 (큰 배 · 빠르기 · 큰 사고에서도) · 화면(UI)을 제대로 입힌다**.
 
 ### 판단 엔진 — 아는 것으로 풀고 · 막히면 다른 길 (⑧ 마음 · ⑩ 주컴퓨터 공통 · 바퀴 3 설계 · 함장과 정함)
 함장 기준: 사람 · 로봇 · 주컴퓨터 모두 1순위가 안 되면 2순위 → 그것도 안 되면 대체 방법을 찾는다 (실제로 지능이 있는 것처럼) · **각자 아는 것을 바탕으로** · 결함은 장면마다 땜질하지 않고 이 틀로 고친다.
@@ -1167,6 +1167,12 @@
 - **주인공 따라가기**: 자를 때 그 자리에서 최근 가장 컸던 일의 사람이 주인공 — 업음 · 업힘(업은 이를) · 도망 · 공황 · 구하기 · 불 끄기 · 구멍 막기 · 대피 · 몸싸움 · 우주복 가지러 · 쓰러짐인 동안 30칸 안에서 따라가고
   지나간 칸에 관심 1 · 떠나온 자리(같은 사슬 · 같은 사람의 일)로는 되돌아 자르지 않는다 · 30초 조용하면 놓는다.
 - **두 곳 오가기**: 화면 밖에서 가장 뜨거운 곳이 30을 넘고 지금 장면의 반을 넘는데 20초 넘게 이 장면만 봤으면 엇갈려 그리로 (결정적 순간 · 같은 장면은 빼고).
+- **조용할 때 일상** (함장 요청 — 새 엔진 판에서 엔진이 도는 것이 보이게): 볼 만한 일이 없으면(관심 1 아래) 배 가운데(빈 통로)에 몇 시간씩 쉬던 카메라가
+  사람이 있는 방을 차례로 비춘다 — 깨어 있는 이가 있는 방 가운데 가장 오래 안 본 방(처음이면 사람이 많은 방) · 한 방에 15초(화면) · 다들 자면 자는 방 ·
+  그 방 사람들 가운데쯤의 사람에게 · 방 넓이만큼 확대. 막 본 장면은 적어도 8초 머물고 · 쉬는 것으로 치니 첫 일에는 곧장 그리로 자른다.
+  시험: 긴 배 양 끝 방에 사람 셋 — 50초 동안 사람이 있는 방을 본 틱 3000/3000 · 두 방 · 옮김 3 (고치기 전 2225/3000 · 한 방 · 옮김 0).
+  재미 측정 (디딤 · 살핌 2일 × 2시드): 점수 그대로 (평균 54) · 큰 일을 놓친 것 2% → 0% · 연쇄의 일 본 것 98% → 100% · 큰 일 때 이미 그 자리에 있던 몫 78% → 69%
+  (예전엔 끝난 일 자리에 머물러 있다 그 곁에서 또 난 일을 우연히 먼저 보던 몫 — 이제는 사람들을 보다가 3초 안에 간다) · 장면 자르기 분에 1.6 → 0.7.
 - **카메라 성적 (재미 측정기)**: 무게 20 넘는 일이 났을 때 이미 화면 안(먼저 와 있음) · 화면 3초 안에 감 · 10초 동안 못 봄(놓침 — 종류별) · 두 엔진 넘게 건넌 사슬의 일 본 몫 ·
   분당 자르기 · 화면 밖만 뜨거운 시간(엉뚱한 곳) · 끌림 · 엇갈림 · 따라간 틱 · 공기 조짐. 화면 넓이는 관전 화면과 같다 (확대 20~48칸 · 16:9).
 
@@ -1382,7 +1388,7 @@ tools/Headless     옛 게임 도구 (배 도면 내보내기 --export-ship 만 
 | 소리 | ✔ (바퀴 2 최상) | 두 겹 퍼짐(공기 · 뼈대) · 가림 거름 · 진공 · 재질 고유 진동 · 분출 · 불 · 기계 · 발소리 · 목소리 · 방 울림 · 우주복 숨 · `Lab --listen` · 바탕 소음(장치 표 dB · 사빈 확산음장 · 문 · 벽 투과) · 가림 · 롬바르 · 시끄러운 잠자리 · 낡은 기계 소리(듣고 미리 간다) · 불 우르릉 · 기체 폭발 쾅 · 열폭주 펑 · 쉬익 = 분출 물리 · 늦게 닿는 소리 |
 | 새 화면 | 2단계 ✔ | `engine/ShipView` 그리기(옛 도트 화가) · `Lab --shot` 한 장 · `Lab --film` 하이라이트 필름 · 관전 장면 = 게임의 새 엔진 판 `game/src/NewEngine`(처음 화면에서 고른다 · 두 스레드 · 연출 카메라 · 빠르기 · 원인 사슬 글) · `Lab --live` |
 
-법칙 시험 95 · 규칙 시험 419 — 모두 통과 (GitHub Actions `engine`).
+법칙 시험 95 · 규칙 시험 420 — 모두 통과 (GitHub Actions `engine`).
 성능: 법칙이 몰리는 시험 배(18×12 방 · 불 · 구멍 · 사람)에서 1틱 1.7 ~ 2.3ms · 평시 100명 숨 쉬는 배 1.1ms (코어 4개).
 
 ## 11. 만들며 혼자 정한 것 (함장이 자는 동안)
